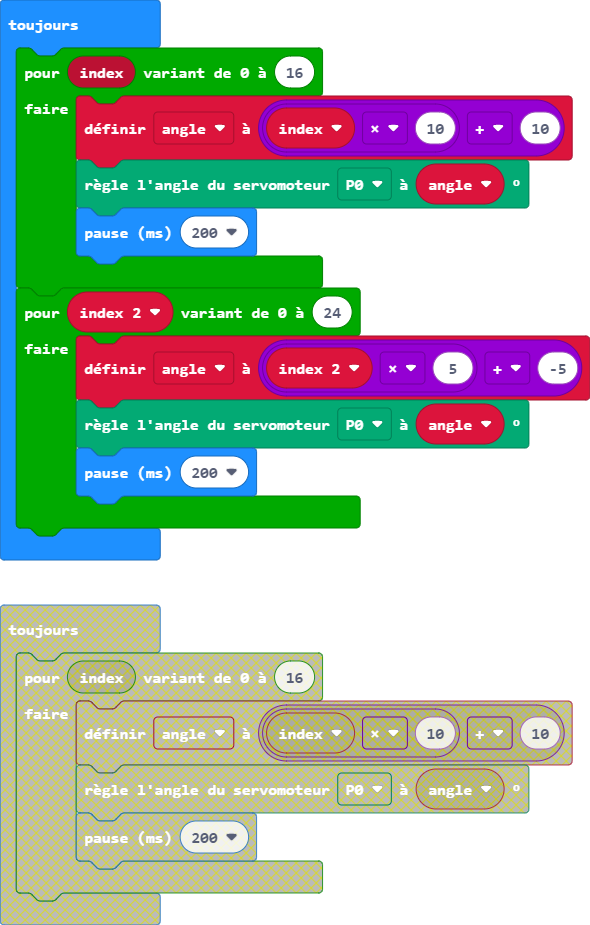
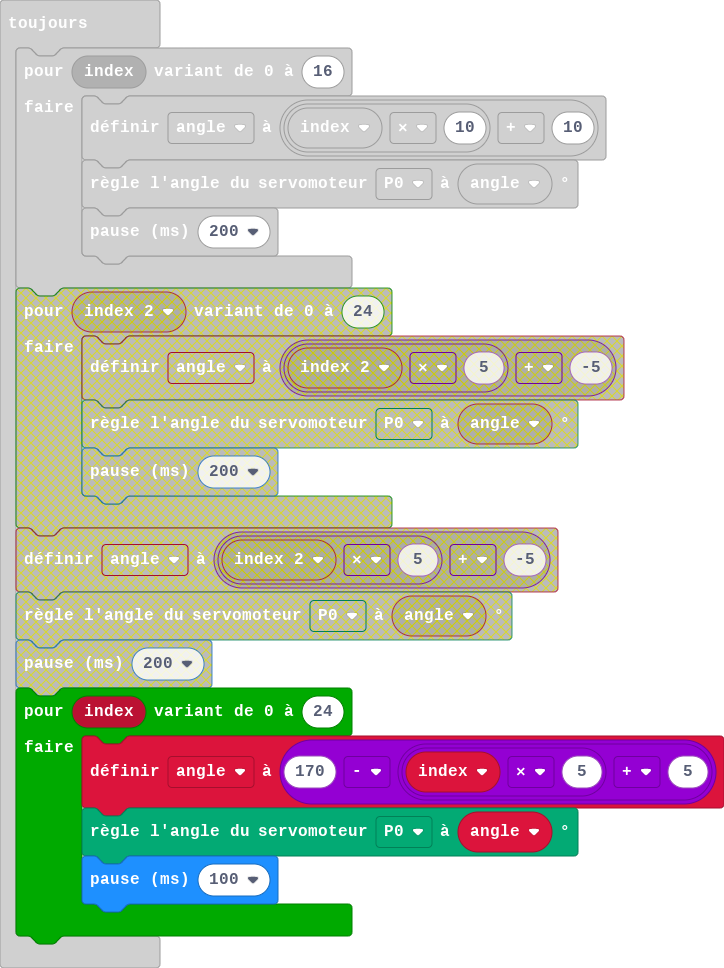
Mise à jour pxt.json, main.blocks, main.ts, main.py

diff --git a/main.ts b/main.ts
@@ -6,9 +6,9 @@ basic.forever(function () {
         servos.P0.setAngle(angle)
         basic.pause(200)
     }
-    for (let index_2 = 0; index_2 <= 24; index_2++) {
-        angle = index_2 * 5 + -5
+    for (let index = 0; index <= 24; index++) {
+        angle = 170 - (index * 5 + 5)
         servos.P0.setAngle(angle)
-        basic.pause(200)
+        basic.pause(100)
     }
 })

diff --git a/main.py b/main.py
@@ -1,0 +1,14 @@
+angle = 0
+servos.P0.set_range(10, 170)
+
+def on_forever():
+    global angle
+    for index in range(17):
+        angle = index * 10 + 10
+        servos.P0.set_angle(angle)
+        basic.pause(200)
+    for index2 in range(25):
+        angle = index2 * 5 + 5
+        servos.P0.set_angle(angle)
+        basic.pause(100)
+basic.forever(on_forever)
